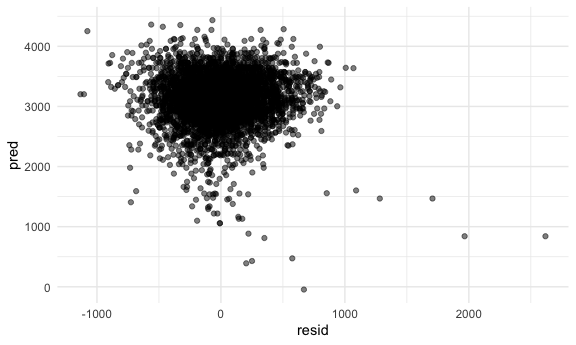
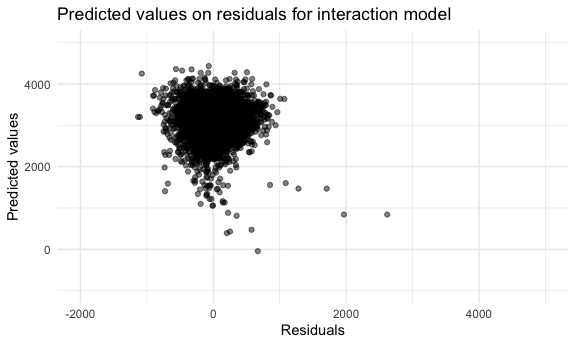
edits to prob 2 plots, started prob 3

diff --git a/hw6_amw2275.md b/hw6_amw2275.md
@@ -160,17 +160,38 @@ And now, let’s plot those residuals and predicted values for each model.
 crude_resid_plot = 
   crude_model_df %>% 
   ggplot(aes(x = resid, y = pred)) +
-  geom_point(alpha = 0.5)
+  geom_point(alpha = 0.5) +
+  xlim(-2000, 5000) +
+  ylim(-1000, 5000) +
+  labs(
+    title = "Predicted values on residuals for crude model",
+    x = "Residuals",
+    y = "Predicted values"
+  )
 
 inter_resid_plot = 
   inter_model_df %>% 
   ggplot(aes(x = resid, y = pred)) +
-  geom_point(alpha = 0.5)
+  geom_point(alpha = 0.5) +
+  xlim(-2000, 5000) +
+  ylim(-1000, 5000) +
+  labs(
+    title = "Predicted values on residuals for interaction model",
+    x = "Residuals",
+    y = "Predicted values"
+  )
 
 full_resid_plot = 
   full_model_df %>% 
   ggplot(aes(x = resid, y = pred)) +
-  geom_point(alpha = 0.5)
+  geom_point(alpha = 0.5) +
+  xlim(-2000, 5000) +
+  ylim(-1000, 5000) +
+  labs(
+    title = "Predicted values on residuals for full model",
+    x = "Residuals",
+    y = "Predicted values"
+  )
 
 crude_resid_plot
 ```
@@ -232,3 +253,22 @@ cv_plot
 Based on our cross validation, it appears that the full model we
 proposed has the best fit for the data, as it has the lowest root mean
 squared error.
+
+## Problem 3
+
+For this problem, we will be using bootstrapping to evaluate the NOAA
+weather data frame.
+
+``` r
+weather_df = 
+  rnoaa::meteo_pull_monitors(
+    id = c("USW00094728"),
+    var = c("PRCP", "TMIN", "TMAX"), 
+    date_min = "2017-01-01",
+    date_max = "2017-12-31") %>%
+  mutate(
+    name = recode(id, "USW00094728" = "CentralPark_NY"),
+    tmin = tmin / 10,
+    tmax = tmax / 10) %>%
+  select(name, id, everything())
+```
